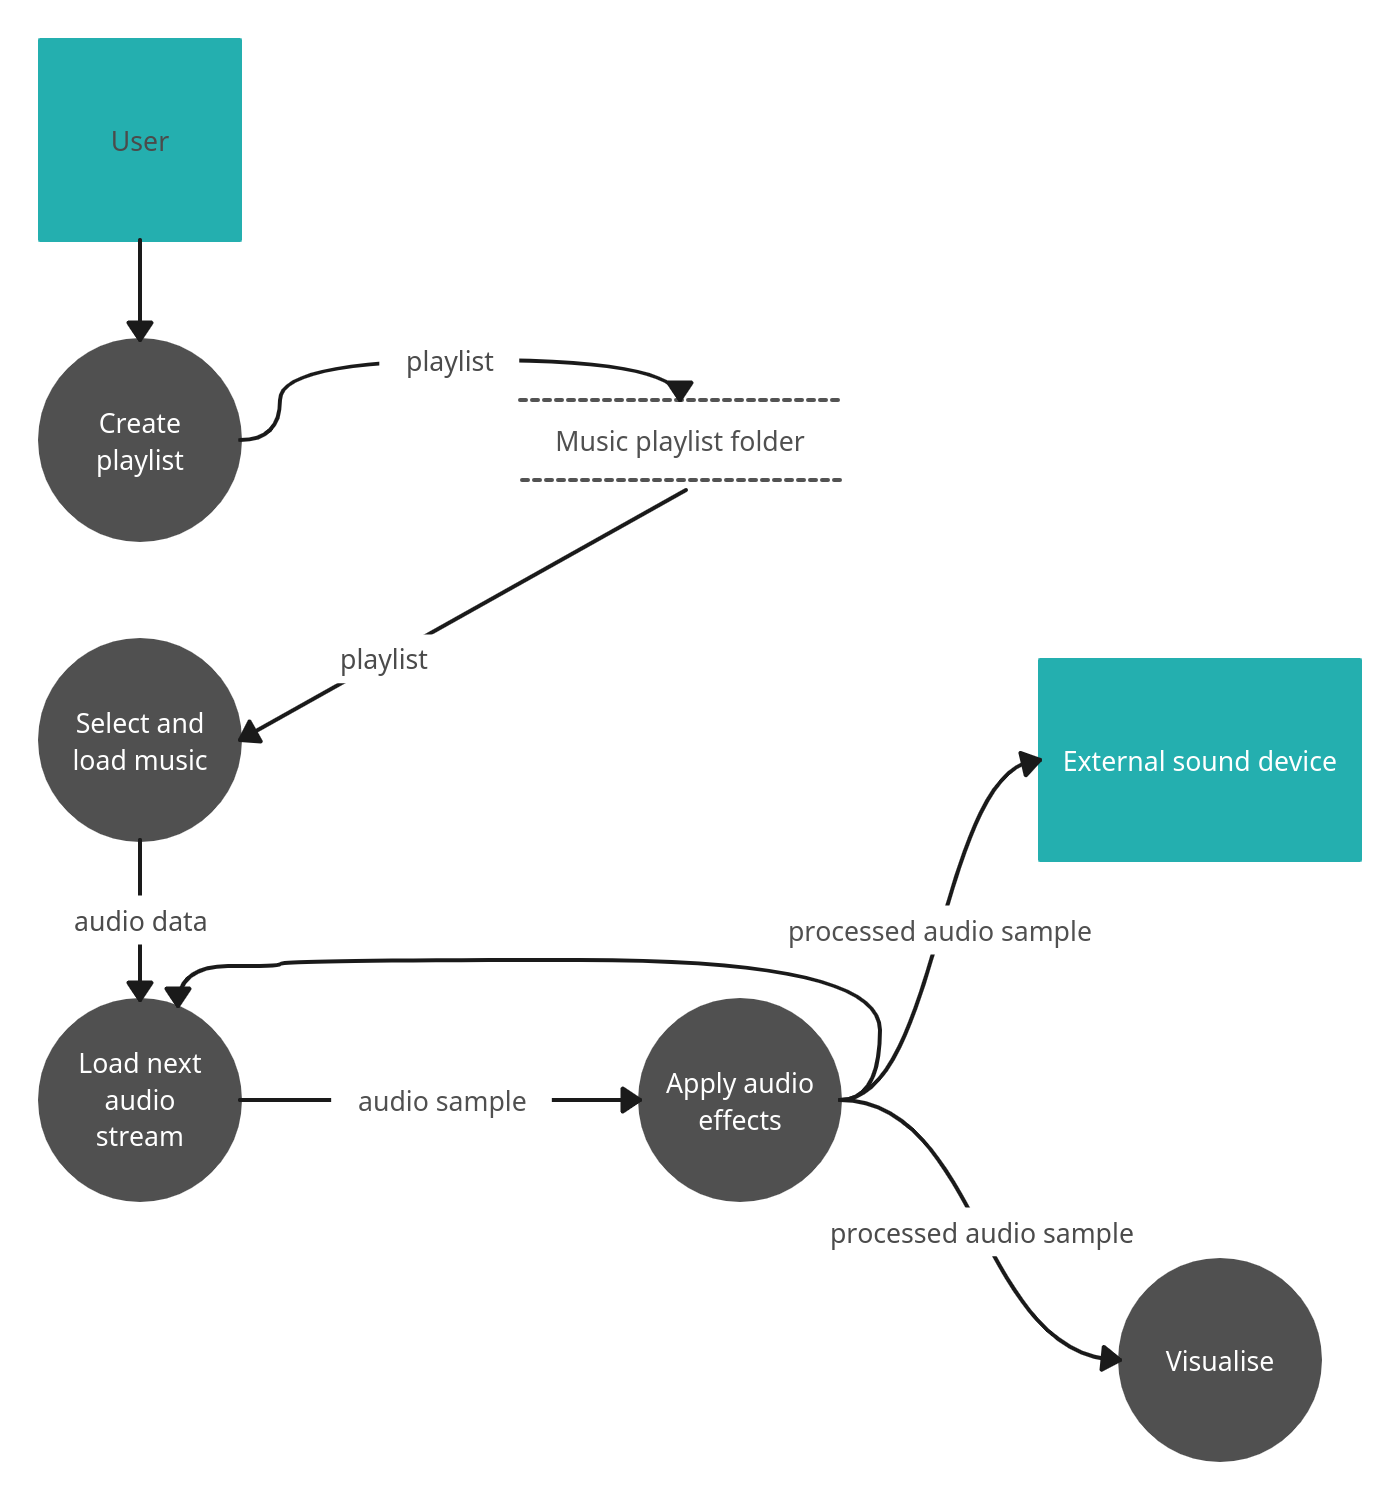
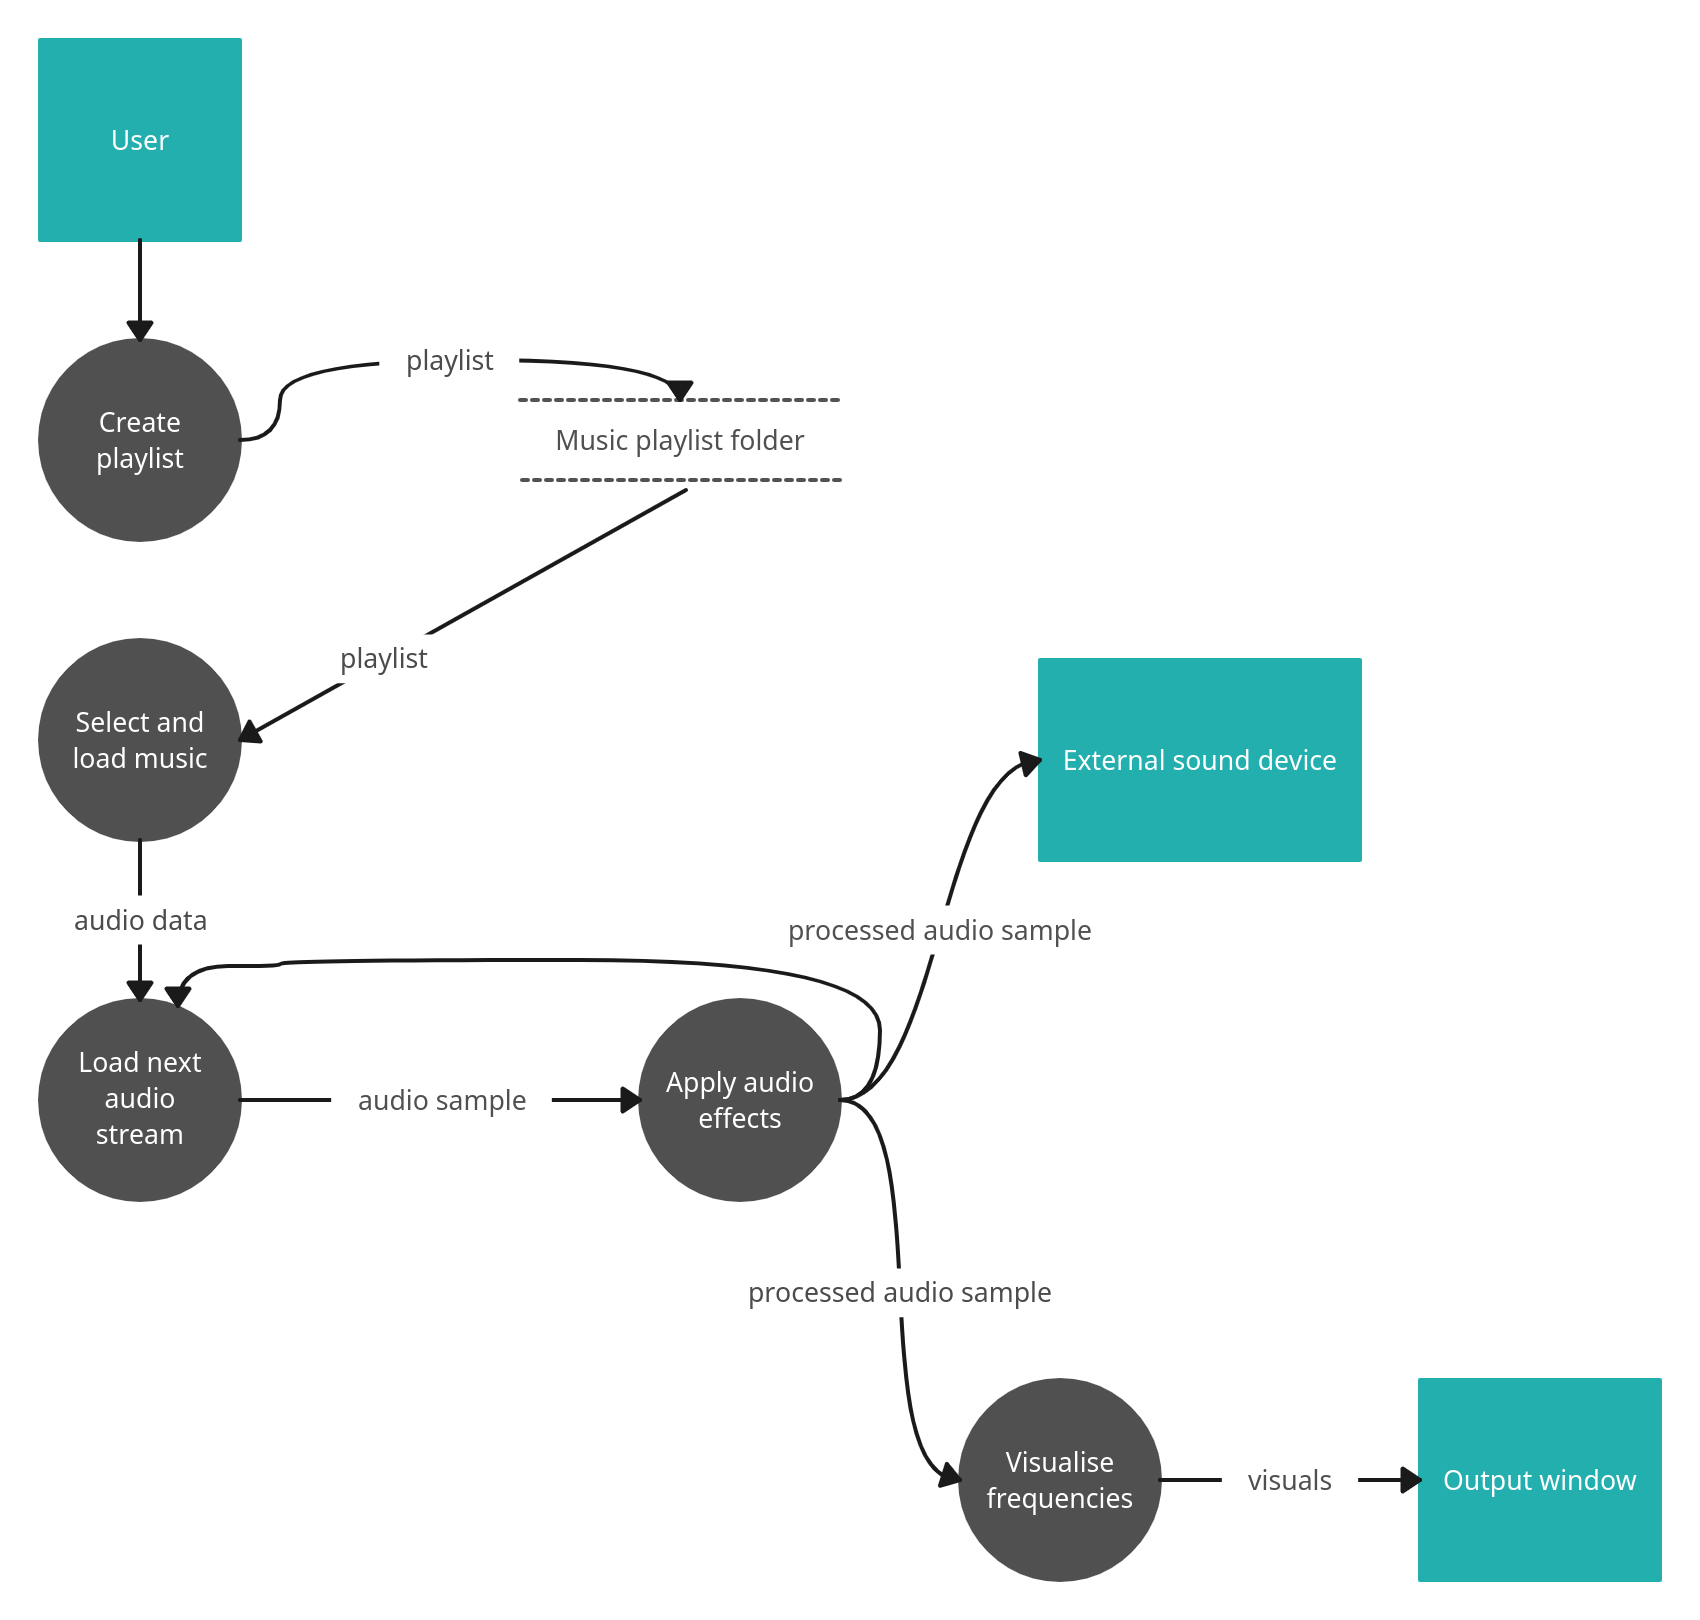
Fixed DFD

diff --git a/documentation/document.tex b/documentation/document.tex
@@ -117,7 +117,7 @@
 	Languages such as Python and Ruby, whilst intuitive and easy to use, may not provide sufficient CPU performance to easily allow the system to be real-time. Most music typically has two channels, each at a sample rate of around 44,000 Hz, meaning the system must process roughly 88,000 floating point numbers per second at minimum. This number can quickly grow if, for example, an echo is required, as then multiple seconds of audio may need to be considered. Whilst most machines have CPUs powerful enough to accomplish this even when under an interpreted language, it may result in high CPU usage and significant energy requirements, raising the barrier of entry to using the program. Ideally, the program should therefore not use an interpreted language, so as to maximise the number of people who can run it.
 	
 	\paragraph{Garbage-collected and JIT languages}
-	Languages such as C\# and Java are both Just-In-Time  (JIT) compiled and garbage collected.  This is unacceptable for a real-time audio processing application as both JIT compilation and garbage collection typically introduce frequent micro-stutters, which may result in occasional blips in the program's audio, ruining the experience.
+	Languages such as C\# and Java are both Just-In-Time  (JIT) compiled and garbage collected.  This is unacceptable for a real-time audio processing application as both JIT compilation and garbage collection typically introduce frequent micro-stutters, which may result in occasional blips in the program's audio, ruining the output.
 	
 	\paragraph{}
 	After excluding the two groups of languages above, it can be seen that any language chosen must be compiled ahead-of-time to native machine code to maximise performance and avoid JIT stutter, whilst also providing direct control over memory to avoid the garbage-collection issues described above. Ideally, it should also be a modern language capable of OOP. After reviewing this requirements I have decided to use C++, as I am extremely familiar with the language and believe it suits all these requirements.
@@ -128,14 +128,18 @@
 	\includegraphics[width=13cm]{DFD}
 
 	\subsection{Final objectives}
-	\begin{itemize}
+	\begin{enumerate}
 	\item  The user must be able to load a collection of audio files known as a "playlist" and then play the audio files contained within in a logical order
 	\item  The user must be able to visualise the current audio being played in the frequency domain (i.e. visualise the frequencies)
 	\item The user must be able to modify the audio's frequency domain (i.e. selectively modify frequencies such as by performing a bass boost) in realtime
 	\item The user must be able to apply additional "audio effects" to further enhance the music: echo, volume adjustment and noise
 	\item The user must be able to configure these "audio effects" individually and also apply pre-made "presets" to quickly reach a desired effect
-	\item  The system must run quickly on an average school computer
-	\end{itemize}
+	\item  The system must run in real-time on an average school computer
+	\end{enumerate}
+
+	\section { Design }
+	\section {  Testing }
+	\section {  Evaluation }
 
 	\section { Code example }
 		\begin{minted}{c++}
